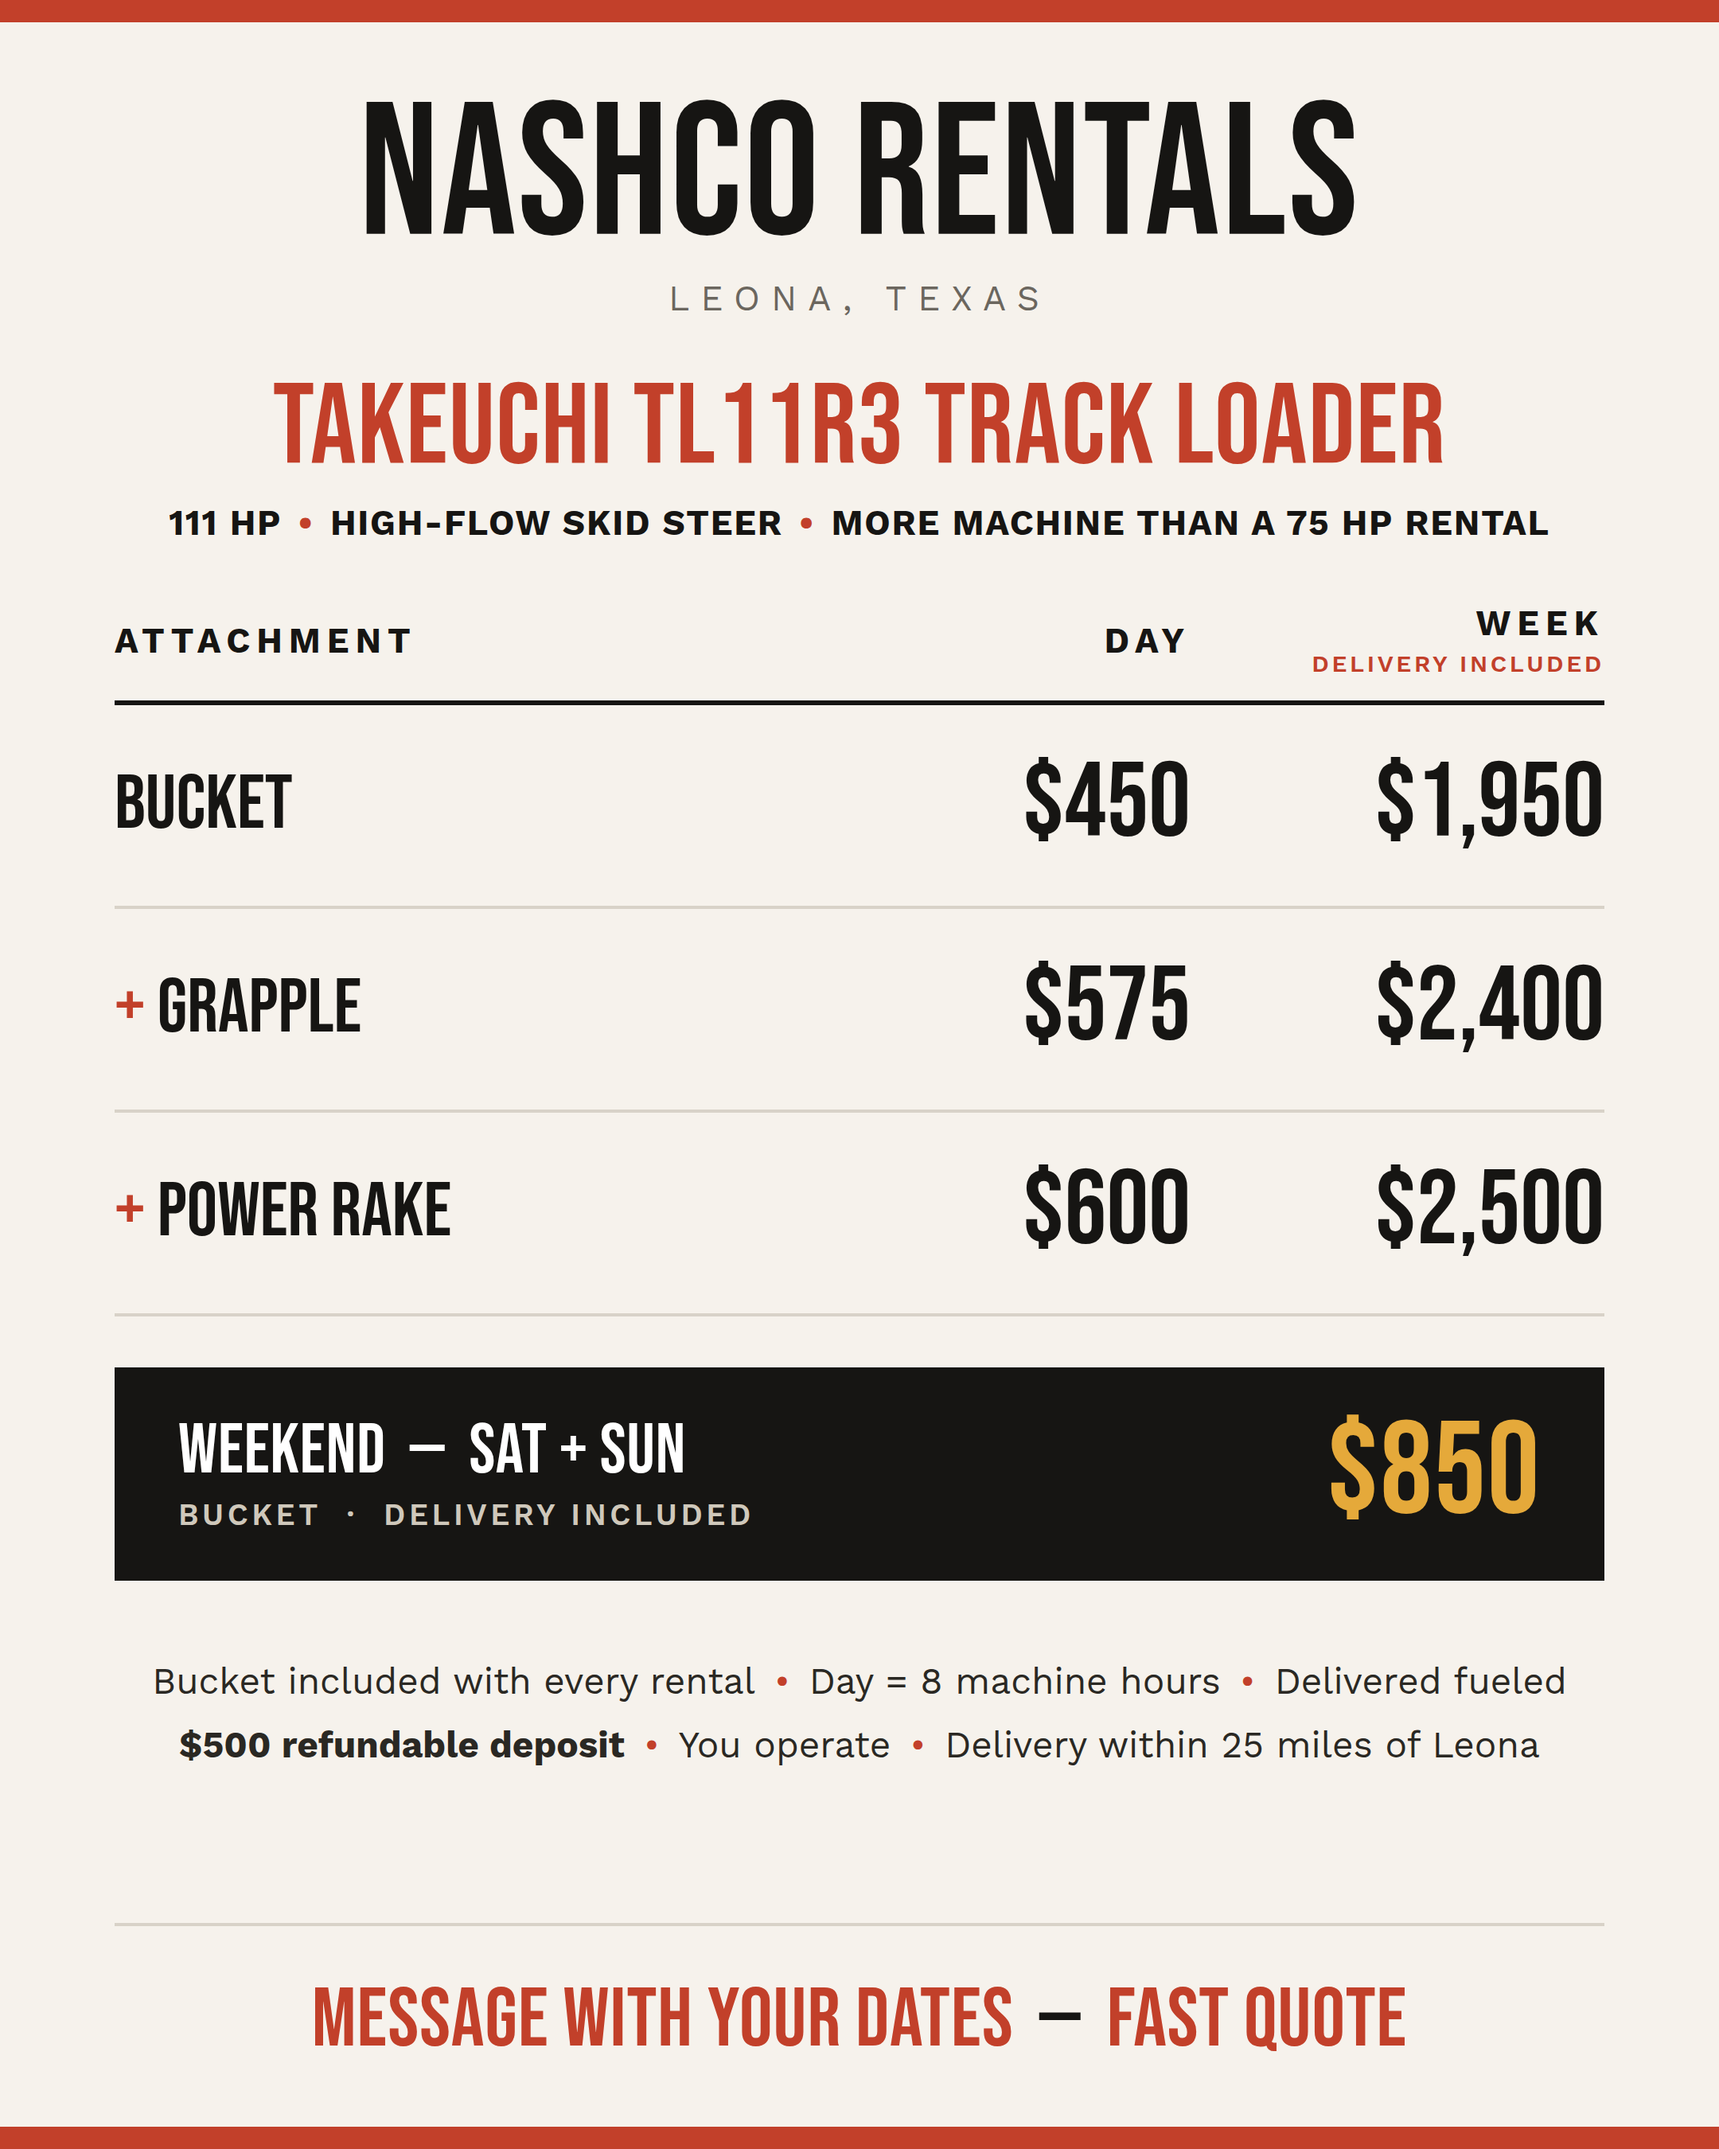
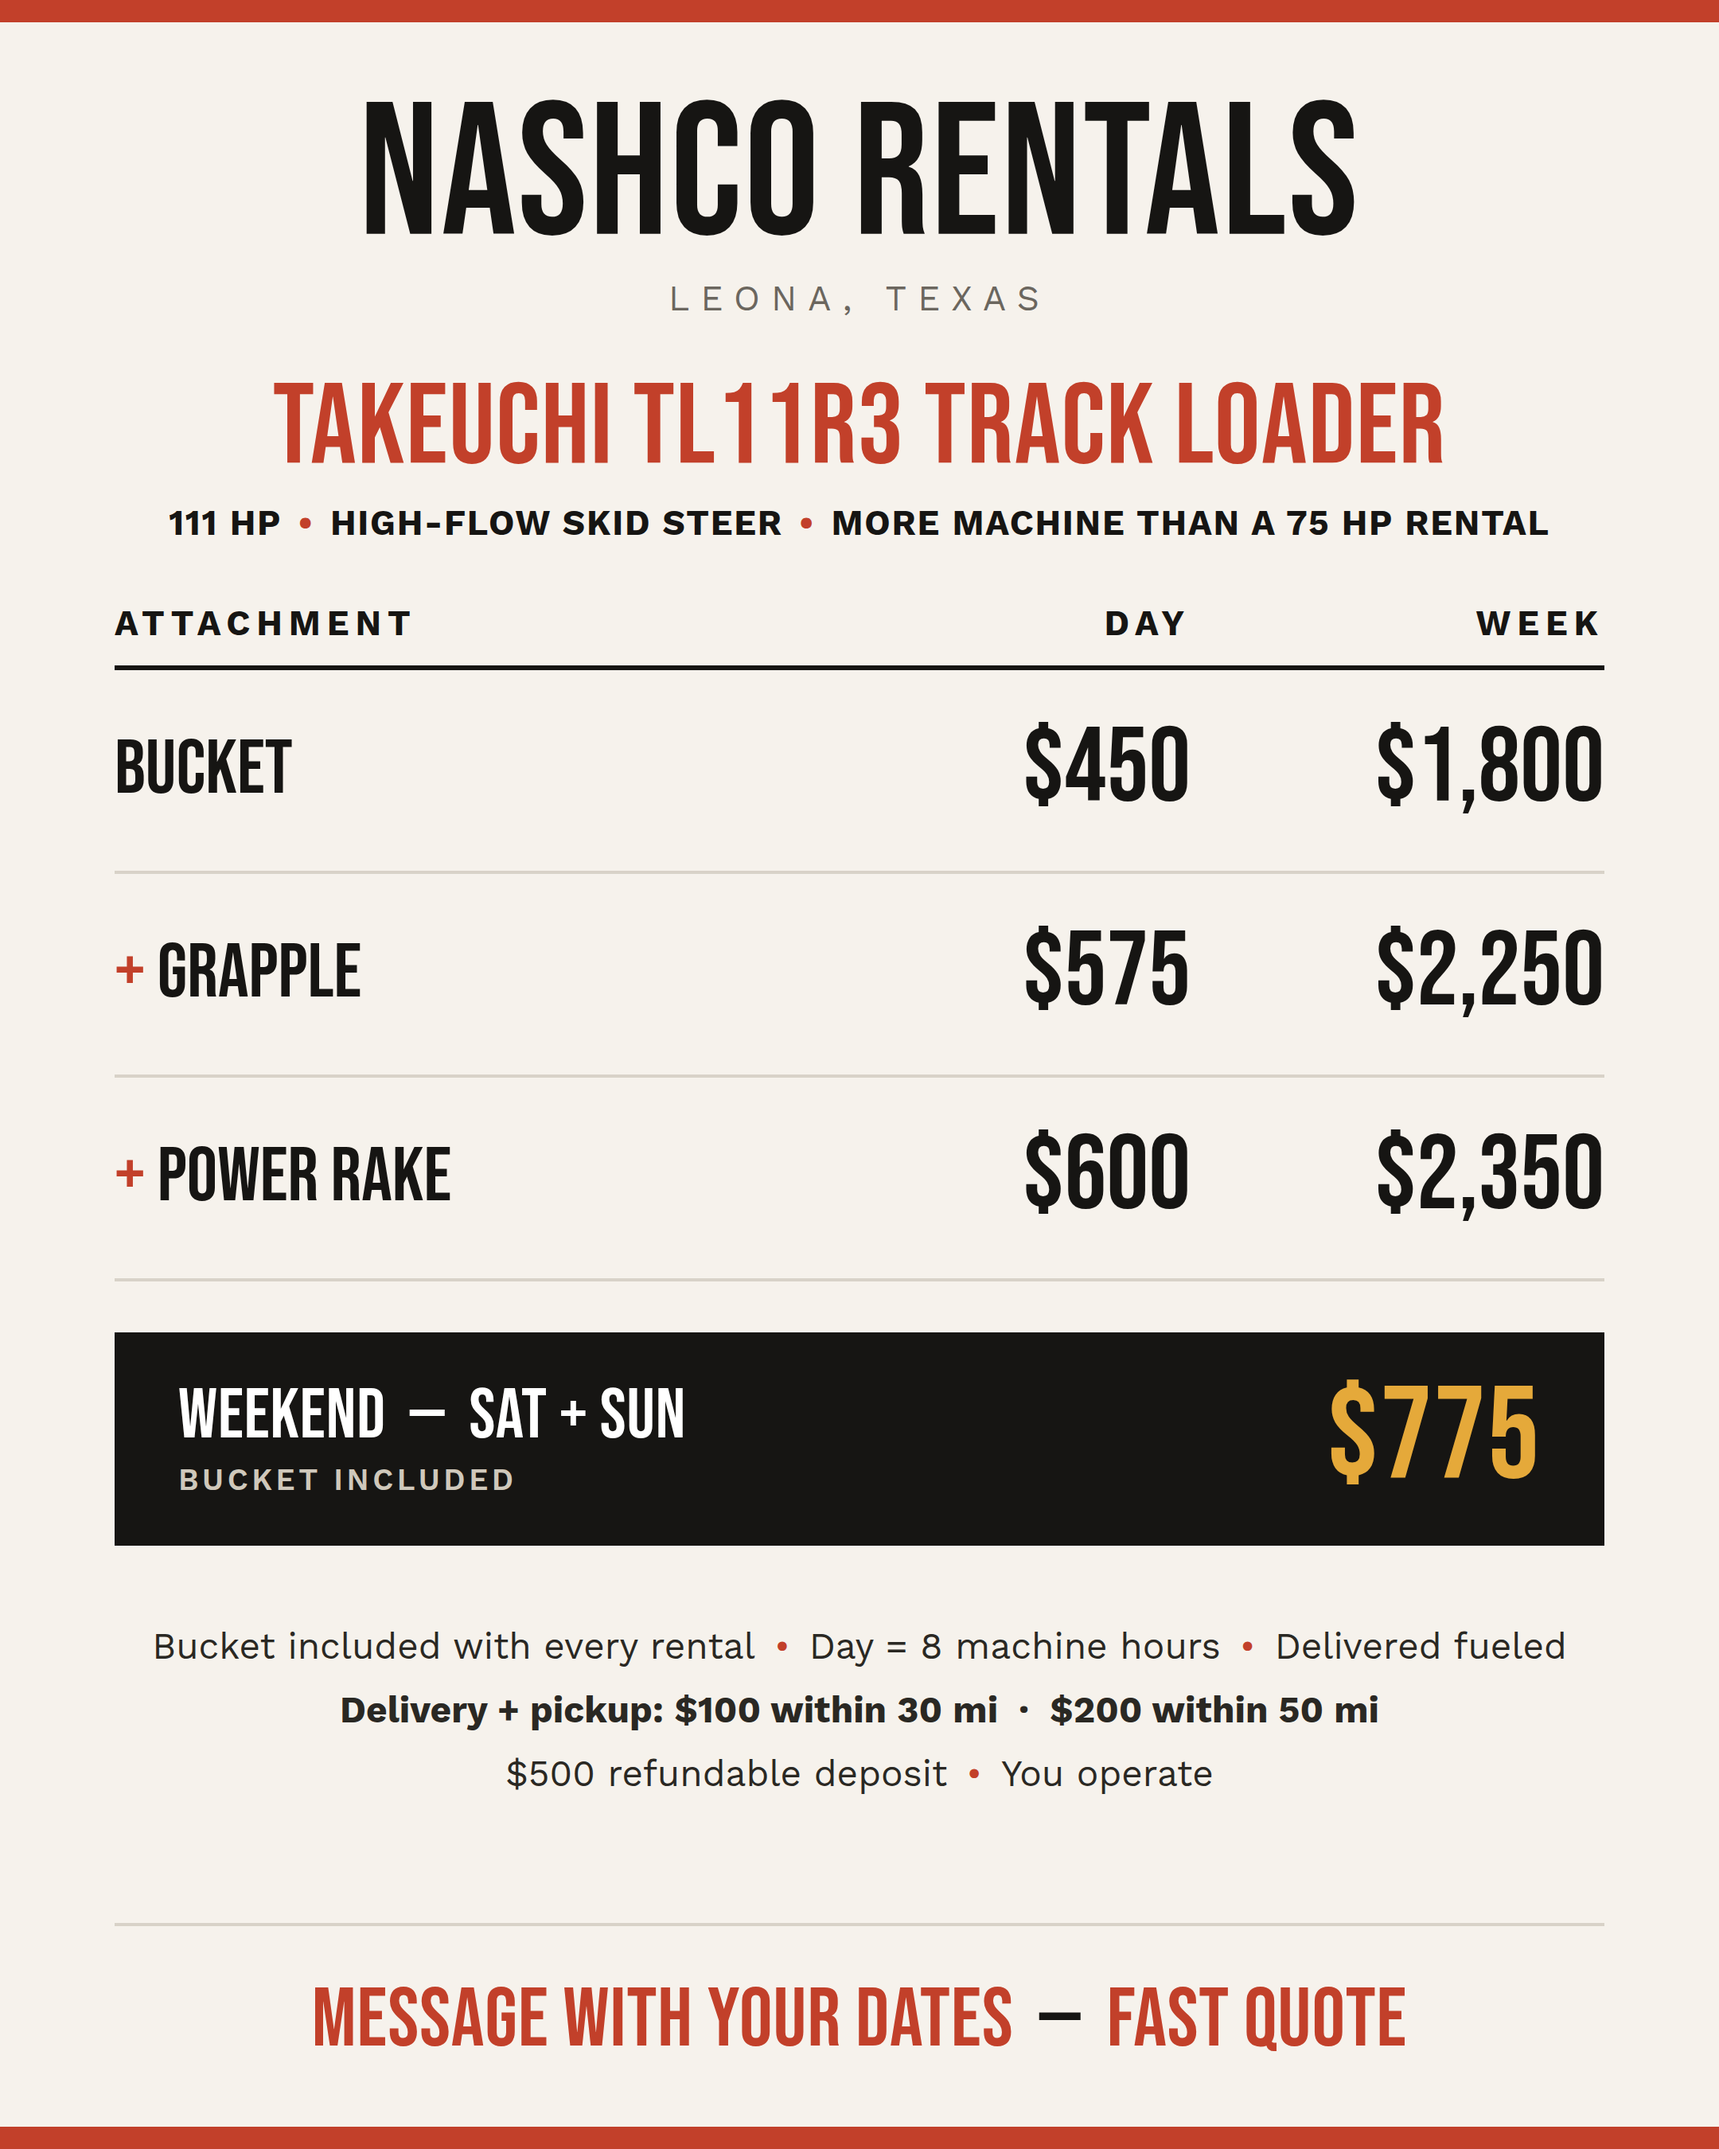
Rate card: 50-mile delivery tiers, original rental rates
Claude-Session: https://claude.ai/code/session_01MjBdAn1tqXy1S9X7E6qMHj

diff --git a/marketing/rate-card.html b/marketing/rate-card.html
@@ -44,20 +44,21 @@
   </div>
 
   <table>
-    <tr><th>Attachment</th><th>Day</th><th>Week<small>Delivery included</small></th></tr>
-    <tr><td class="label">BUCKET</td><td class="price">$450</td><td class="price week">$1,950</td></tr>
-    <tr><td class="label"><em>+</em> GRAPPLE</td><td class="price">$575</td><td class="price week">$2,400</td></tr>
-    <tr><td class="label"><em>+</em> POWER RAKE</td><td class="price">$600</td><td class="price week">$2,500</td></tr>
+    <tr><th>Attachment</th><th>Day</th><th>Week</th></tr>
+    <tr><td class="label">BUCKET</td><td class="price">$450</td><td class="price week">$1,800</td></tr>
+    <tr><td class="label"><em>+</em> GRAPPLE</td><td class="price">$575</td><td class="price week">$2,250</td></tr>
+    <tr><td class="label"><em>+</em> POWER RAKE</td><td class="price">$600</td><td class="price week">$2,350</td></tr>
   </table>
 
   <div class="weekend">
-    <div class="l bebas">WEEKEND &nbsp;—&nbsp; SAT + SUN<small>Bucket &nbsp;·&nbsp; Delivery included</small></div>
-    <div class="r bebas">$850</div>
+    <div class="l bebas">WEEKEND &nbsp;—&nbsp; SAT + SUN<small>Bucket included</small></div>
+    <div class="r bebas">$775</div>
   </div>
 
   <div class="terms">
     Bucket included with every rental<span class="dot">•</span>Day = 8 machine hours<span class="dot">•</span>Delivered fueled<br>
-    <b>$500 refundable deposit</b><span class="dot">•</span>You operate<span class="dot">•</span>Delivery within 25 miles of Leona
+    <b>Delivery + pickup: $100 within 30 mi &nbsp;·&nbsp; $200 within 50 mi</b><br>
+    $500 refundable deposit<span class="dot">•</span>You operate
   </div>
 
   <div class="cta bebas">MESSAGE WITH YOUR DATES<span class="sep">—</span>FAST QUOTE</div>
